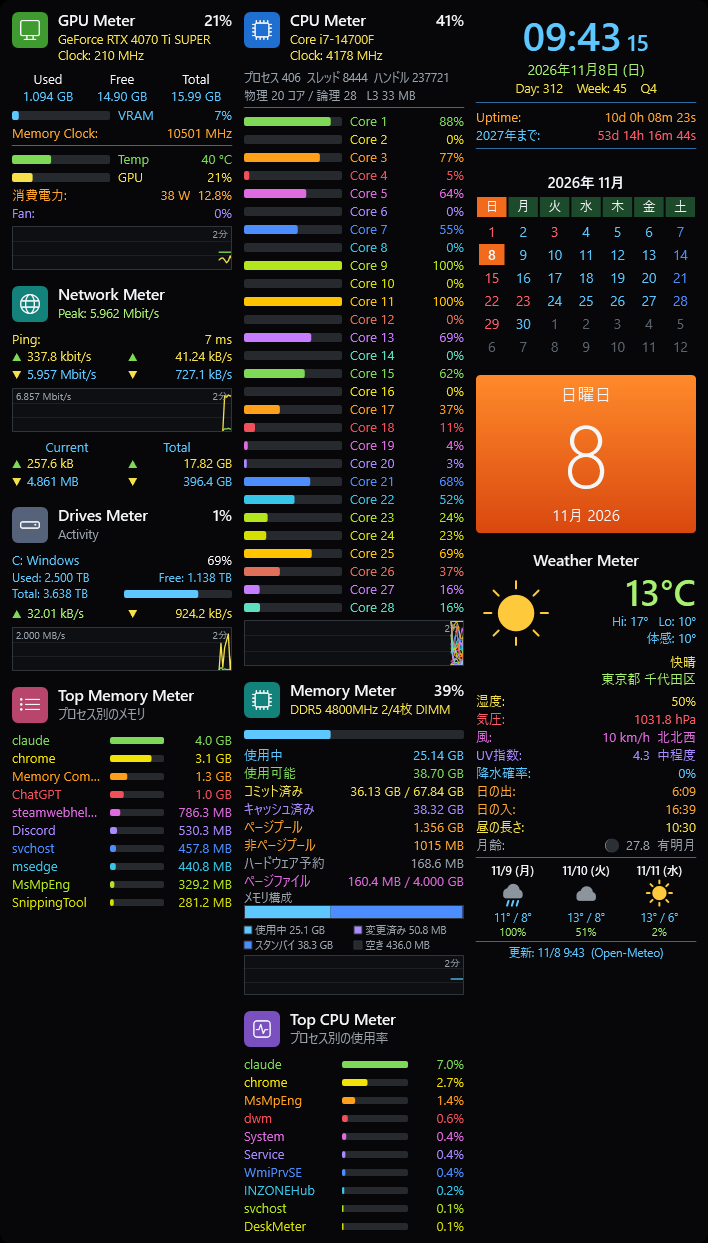
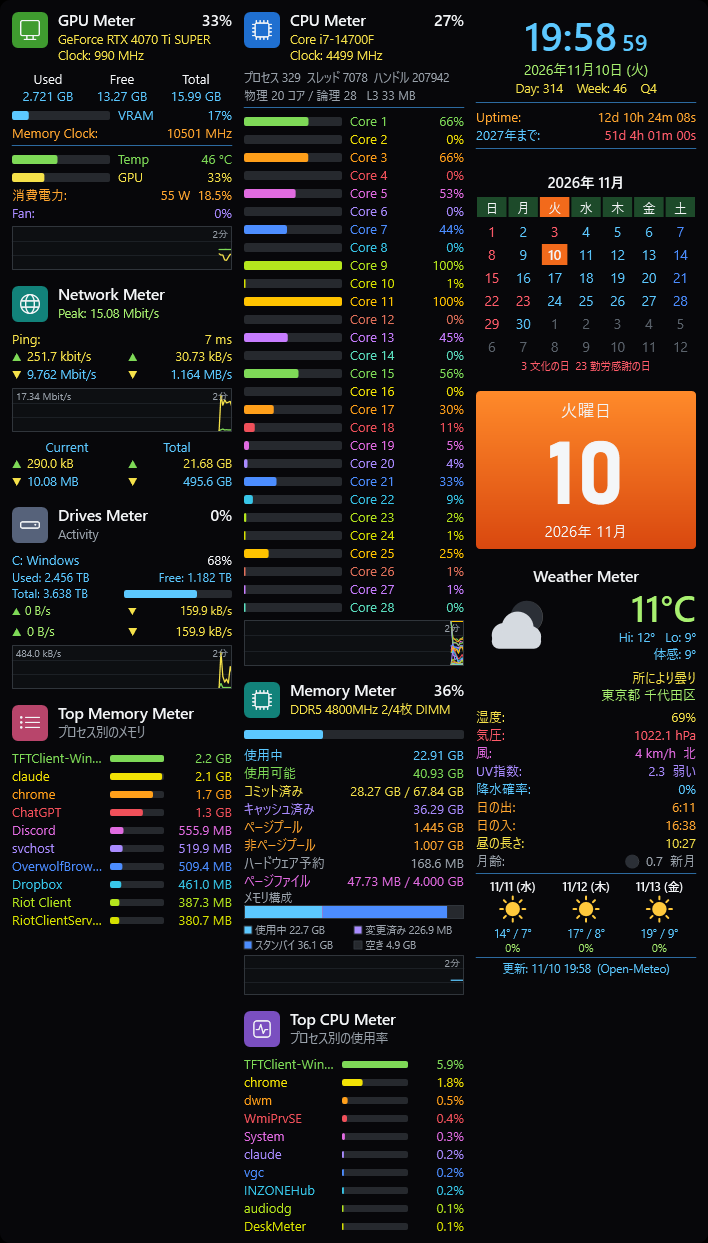
Classic の日付タイルの数字を Bahnschrift の太字に。スナップショットを等倍で撮る
- Skin.DateTileFont / DateTileWeight (skins\*.json でも指定可)。Classic / Classic Sharp は "Bahnschrift, Segoe UI" の bold。
  書体ごとに字面の位置が違うので、数字の上下中央をタイルの上から 82 に合わせる。自作スキンと他の組み込みスキンは従来どおり
- スナップショットの VisualBrush を絶対指定の Viewbox にして、描画内容の外接矩形に引きずられないようにする
- プレビュー 4 枚、ヘルプ、CHANGELOG を更新

diff --git a/help/custom-skin.html b/help/custom-skin.html
@@ -88,6 +88,7 @@
   <tr><td><code>CalSun</code> / <code>CalSat</code></td><td>色</td><td>カレンダーの日曜 (祝日も) / 土曜の文字。省略すると Classic の赤 / 青のまま (<code>Danger</code> や <code>Blue</code> には連動しない)</td></tr>
   <tr><td><code>DateTile</code></td><td>色 (2 色可)</td><td>日付タイルの背景。<code>"#上,#下"</code> でグラデーション</td></tr>
   <tr><td><code>DateTileText</code></td><td>色</td><td>日付タイルの文字</td></tr>
+  <tr><td><code>DateTileFont</code> / <code>DateTileWeight</code></td><td>フォント名 / "light" "normal" "semibold" "bold"</td><td>日付タイルの大きな数字の書体と太さ。省略すると <code>FontFamily</code> の細字。組み込みの Classic は <code>"Bahnschrift, Segoe UI"</code> の <code>"bold"</code></td></tr>
   <tr><td><code>Sun</code> / <code>CloudLight</code> / <code>CloudDark</code> / <code>Rain</code> / <code>Snow</code></td><td>色</td><td>天気アイコンの太陽、雲の明るい面と暗い面、雨、雪</td></tr>
   <tr><td><code>MoonLit</code> / <code>MoonDark</code></td><td>色</td><td>月齢の明るい部分と影の部分</td></tr>
   <tr><td><code>Palette</code></td><td>色の配列</td><td>CPU のコア別バー、プロセス一覧の行の色。先頭から順に使い、足りなければ繰り返す。1 色以上</td></tr>

diff --git a/src/MeterView.cs b/src/MeterView.cs
@@ -27,7 +27,8 @@ namespace DeskMeter
 
         // 以下はすべて ApplySkin() で現在のスキンから設定される
         Skin sk;
-        Typeface TfN, TfB, TfL;
+        Typeface TfN, TfB, TfL, TfDay;
+        bool dayCustom;   // 日付タイルの数字がスキンの既定 (細字) と違う
         Brush White, Yellow, Orange, Cyan, Green, Lime, Red, Gray, Dim, Magenta, Violet, Blue, Track, GraphBg,
             TileGreen, TileBlue, TileTeal, TileSlate, TilePurple, TileRose, CalHead, TodayOrange, TileGradient,
             SunBrush, CloudLight, CloudDark, RainBrush, SnowBrush, MoonLit, MoonDark, Scanline;
@@ -68,6 +69,17 @@ namespace DeskMeter
         readonly Dictionary<string, PanelVisual> panelVisuals = new Dictionary<string, PanelVisual>();
         readonly DrawingVisual overlay = new DrawingVisual();
         static readonly bool PanelSkipOff = Environment.GetEnvironmentVariable("DESKMETER_NO_PANELSKIP") == "1";   // 比較用
+
+        // スナップショット用のブラシ。既定の VisualBrush は描画内容の外接矩形を貼る先に引き伸ばすので、枠線が 0.1 px でも外に出ていると
+        // 全体がわずかに縮小されて縁がにじむ。要素の矩形をそのまま等倍で写す
+        public static VisualBrush SnapshotBrush(FrameworkElement v, double scale)
+        {
+            var b = new VisualBrush(v);
+            b.ViewboxUnits = BrushMappingMode.Absolute;
+            b.Viewbox = new Rect(0, 0, v.ActualWidth * scale, v.ActualHeight * scale);   // ブラシの中では LayoutTransform (倍率) が掛かった大きさ
+            b.Stretch = Stretch.Fill;
+            return b;
+        }
 
         protected override int VisualChildrenCount { get { return kids.Count; } }
         protected override Visual GetVisualChild(int index) { return kids[index]; }
@@ -487,6 +499,9 @@ namespace DeskMeter
             TfN = new Typeface(font, FontStyles.Normal, FontWeights.Normal, FontStretches.Normal);
             TfB = new Typeface(font, FontStyles.Normal, FontWeights.SemiBold, FontStretches.Normal);
             TfL = new Typeface(font, FontStyles.Normal, FontWeights.Light, FontStretches.Normal);
+            dayCustom = sk.DateTileFont != null || sk.DateTileWeight != "light";
+            FontWeight dw = sk.DateTileWeight == "bold" ? FontWeights.Bold : sk.DateTileWeight == "semibold" ? FontWeights.SemiBold : sk.DateTileWeight == "normal" ? FontWeights.Normal : FontWeights.Light;
+            TfDay = dayCustom ? new Typeface(sk.DateTileFont != null ? new FontFamily(sk.DateTileFont) : font, FontStyles.Normal, dw, FontStretches.Normal) : TfL;
             White = sk.Title; Yellow = sk.Text1; Orange = sk.Accent2; Cyan = sk.Text2; Green = sk.Accent1; Lime = sk.Lime;
             Red = sk.Danger; Gray = sk.Muted; Dim = sk.Dim; Magenta = sk.Magenta; Violet = sk.Violet; Blue = sk.Blue;
             Track = sk.Track; GraphBg = sk.GraphBg;
@@ -1369,8 +1384,15 @@ namespace DeskMeter
             const double th = 158;
             dc.DrawRoundedRectangle(TileGradient, null, new Rect(x, y, ColW, th), R(4), R(4));
             T(dc, today.ToString("dddd", Ja), x + ColW / 2, y + 8, 17, sk.DateTileText, 2);
-            FormattedText day = Make(today.Day.ToString(Inv), 88, sk.DateTileText, TfL);
-            dc.DrawText(day, new Point(x + (ColW - day.Width) / 2, y + 18));
+            FormattedText day = Make(today.Day.ToString(Inv), 88, sk.DateTileText, TfDay);
+            double dy = y + 18;
+            if (dayCustom)
+            {
+                // 書体ごとに字面の位置が違うので、数字の上下中央を曜日と年月の間 (タイルの上から 82) に合わせる
+                double cap = TfDay.CapsHeight * 88;
+                dy = y + 82 - cap / 2 - (day.Baseline - cap);
+            }
+            dc.DrawText(day, new Point(x + (ColW - day.Width) / 2, dy));
             T(dc, today.ToString("yyyy年 M月", Ja), x + ColW / 2, y + th - 28, 15, sk.DateTileText, 2);
             return y + th;
         }

diff --git a/src/Skin.cs b/src/Skin.cs
@@ -15,6 +15,9 @@ namespace DeskMeter
         public string Name;
         public int Warnings;             // skins\*.json から読んだときに見つかった問題の数 (組み込みは 0)
         public string FontFamily = "Segoe UI, Yu Gothic UI, Meiryo UI";
+        // 日付タイルの大きな数字の書体と太さ。DateTileFont が null なら FontFamily、太さは light / normal / semibold / bold
+        public string DateTileFont;
+        public string DateTileWeight = "light";
         public double CornerRadius = 10;
         public Color Background = Hex("#08090C");
         public Pen Border;             // ウィンドウ外枠 (null なら無し)
@@ -186,6 +189,8 @@ namespace DeskMeter
         public class SkinFile
         {
             public string FontFamily;
+            public string DateTileFont;     // 日付タイルの数字の書体 (無指定なら FontFamily)
+            public string DateTileWeight;   // light / normal / semibold / bold (既定 light)
             public double? CornerRadius;
             public string Background;
             public string BorderColor;      // 無指定なら枠なし
@@ -215,6 +220,7 @@ namespace DeskMeter
 
         // 壊れた JSON は deskmeter.log に書いて null を返す。色の書き間違いは項目ごとに Classic の値で代用する
         static readonly string[] BarStyles = { "flat", "pill", "segment" };
+        static readonly string[] Weights = { "light", "normal", "semibold", "bold" };
         static readonly string[] Decors = { "", "sakura", "hearts", "stars", "bubbles", "grid", "rain", "dots", "lines" };
         static readonly string[] Mascots = { "", "cat", "bunny", "bear" };
 
@@ -284,6 +290,15 @@ namespace DeskMeter
                     foreach (string key in raw.Keys)
                         if (!key.StartsWith("_") && typeof(SkinFile).GetField(key, BindingFlags.Public | BindingFlags.Instance | BindingFlags.IgnoreCase) == null) ctx.Warn(key, "知らないキーです (綴りを確認してください)");   // 大文字小文字の違いは読み込みと同じく許す   // "_comment" などメモ用のキーは許す
                 }
+                // 日付タイルの数字は、自作スキンでは従来どおり (スキンの書体の細字) を既定にする。Classic の Bahnschrift は引き継がない
+                s.DateTileFont = null;
+                s.DateTileWeight = "light";
+                if (!string.IsNullOrWhiteSpace(f.DateTileFont))
+                {
+                    s.DateTileFont = f.DateTileFont.Trim();
+                    if (!FontInstalled(s.DateTileFont)) ctx.Warn("DateTileFont", "\"" + s.DateTileFont + "\" はこの PC に入っていないので既定のフォントで表示します");
+                }
+                s.DateTileWeight = Choice(ctx, "DateTileWeight", f.DateTileWeight, Weights, s.DateTileWeight);
                 if (!string.IsNullOrWhiteSpace(f.FontFamily))
                 {
                     s.FontFamily = f.FontFamily.Trim();
@@ -414,6 +429,7 @@ namespace DeskMeter
             s.GraphBorder = P(B("#30353B"), 1); s.GraphGrid = P(B("#1C2025"), 1);
             s.CalHead = B("#1D4A2A"); s.Today = B("#F26A1B"); s.CalSun = s.Danger; s.CalSat = s.Blue;
             s.DateTile = Gradient("#FF8A2A", "#D9480F"); s.DateTileText = s.Title;
+            s.DateTileFont = "Bahnschrift, Segoe UI"; s.DateTileWeight = "bold";   // 日付の数字は DIN 系の太字 (Windows 10 1709 以降に標準。無ければ Segoe UI の太字)
             s.Sun = B("#FFC93C"); s.CloudLight = B("#D5DAE0"); s.CloudDark = B("#8C949E"); s.Rain = B("#5CC8FF");
             s.Snow = s.Title; s.MoonLit = B("#EDE9D6"); s.MoonDark = B("#2B2F36");
             s.Palette = Brushes("#7ED957", "#F2E205", "#FF9F1A", "#F0505A", "#E06BE0", "#A98BFF", "#4C8DFF",

diff --git a/src/MainWindowFloating.cs b/src/MainWindowFloating.cs
@@ -336,7 +336,7 @@ namespace DeskMeter
                     {
                         dc.DrawRectangle(Brushes.Black, null, new Rect(0, 0, w, h));
                         dc.PushTransform(new ScaleTransform(s, s));
-                        dc.DrawRectangle(new VisualBrush(v), null, new Rect(0, 0, v.ActualWidth, v.ActualHeight));
+                        dc.DrawRectangle(MeterView.SnapshotBrush(v, s), null, new Rect(0, 0, v.ActualWidth, v.ActualHeight));
                         dc.Pop();
                     }
                     var rtb = new RenderTargetBitmap(w, h, 96, 96, PixelFormats.Pbgra32);

diff --git a/src/MainWindow.cs b/src/MainWindow.cs
@@ -1660,7 +1660,7 @@ namespace DeskMeter
                 {
                     dc.DrawRectangle(Brushes.Black, null, new Rect(0, 0, w, h));
                     dc.PushTransform(new ScaleTransform(s, s));
-                    dc.DrawRectangle(new VisualBrush(view), null, new Rect(0, 0, view.ActualWidth, view.ActualHeight));
+                    dc.DrawRectangle(MeterView.SnapshotBrush(view, s), null, new Rect(0, 0, view.ActualWidth, view.ActualHeight));
                     dc.Pop();
                 }
                 var rtb = new RenderTargetBitmap(w, h, 96, 96, PixelFormats.Pbgra32);

diff --git a/CHANGELOG.md b/CHANGELOG.md
@@ -2,6 +2,11 @@
 
 各版の zip と SHA-256 は [Releases](../../releases) にあります。
 
+## 未リリース
+
+- Classic / Classic Sharp の日付タイルの数字を、細字から Bahnschrift (DIN 系) の太字にしました。自作スキンでは `DateTileFont` / `DateTileWeight` で指定できます (省略時は従来どおりスキンの書体の細字)。
+- `--snapshot` の PNG を等倍で撮るようにしました。枠線が外に 0.1 px はみ出すスキン (Cyberpunk) では全体がわずかに縮小されて縁がにじんでいました。画面の表示には影響ありません。
+
 ## v0.3.13 (2026-11-10)
 
 ### 負荷
